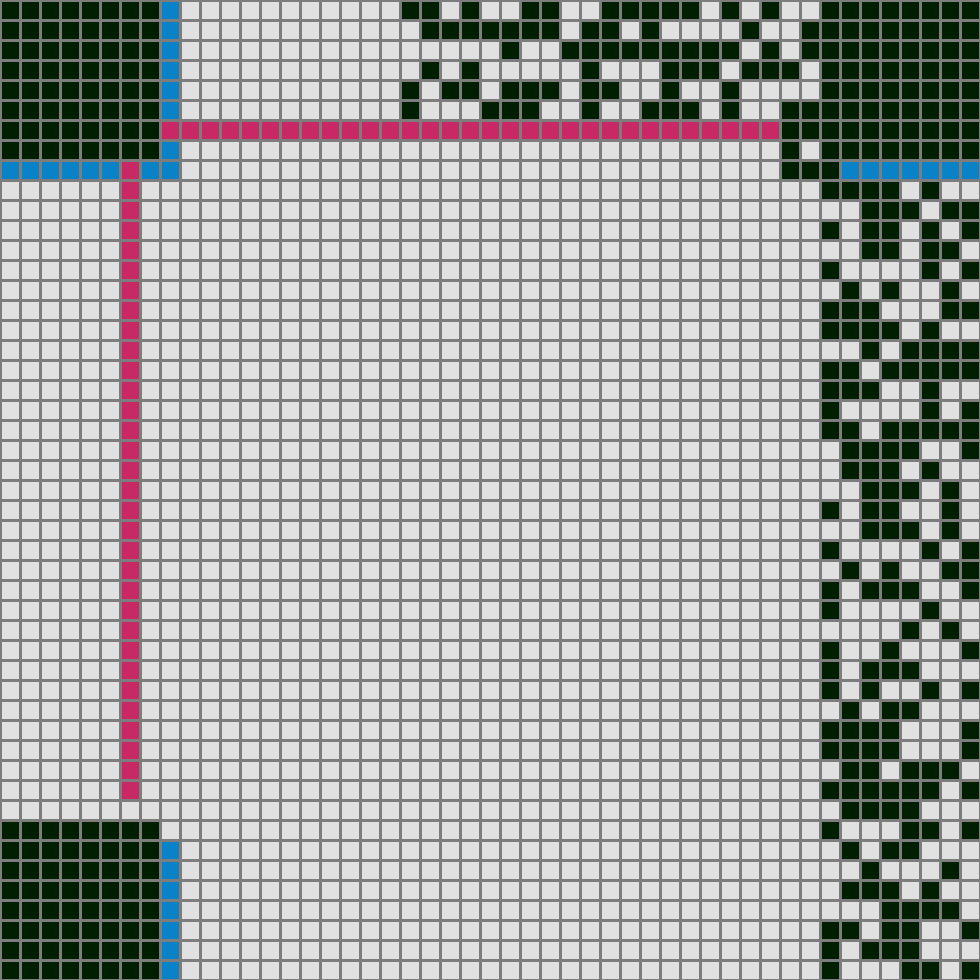
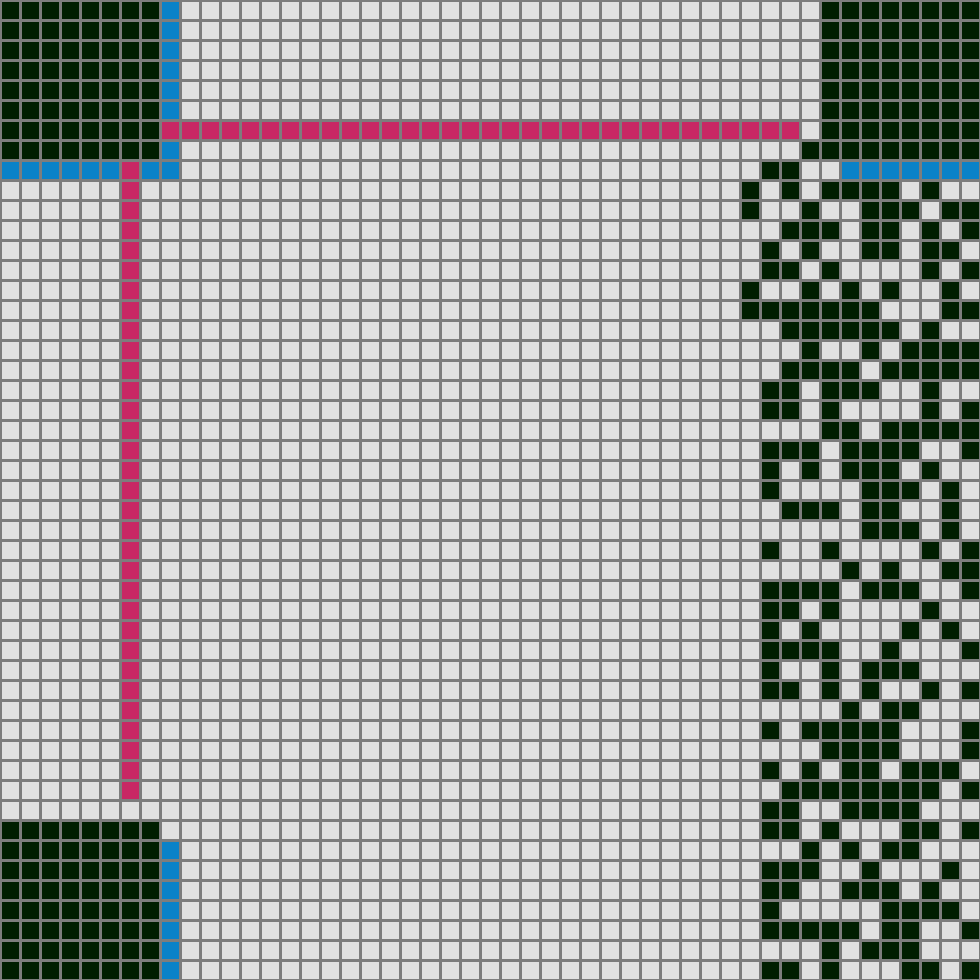
flow of bits encode in correct direction

Changed region(s): [[0.398, 0.0, 0.8571, 0.551], [0.7653, 0.551, 0.8571, 1.0]]

diff --git a/src/grid/grid.rs b/src/grid/grid.rs
@@ -106,8 +106,8 @@ impl<'a> Grid {
     pub fn get_next_point(&self, point: Point) -> Point {
         let adjacent_points: Vec<(isize, isize)> = vec![
             (1, 1),
-            (-1, 1),
             (1, 0),
+            (-1, 1),
             (-1, 0)
         ];
 
@@ -117,7 +117,6 @@ impl<'a> Grid {
                 return false
             } else {
                 let pt = next_point.unwrap();
-                println!("x: {x} y: {y}, from {:?}", p=p, x=pt.x, y=pt.y);
 
                 let cell_ref = self.get_cell_ref(pt.x, pt.y);
                 match cell_ref {
@@ -152,6 +151,11 @@ pub fn encode_byte(grid: &mut Grid, byte: u8, last_position: (usize, usize)) -> 
         let xbit = byte & (1 << i);
 
         grid.encode_bit(xbit == 0, point);
+
+        if point.x > 40 && point.y > 40 {
+            println!("x: {x} y: {y}", x=point.x, y=point.y);
+        }
+
         point = grid.get_next_point(point);
 
         // get next point
@@ -163,7 +167,6 @@ pub fn encode_byte(grid: &mut Grid, byte: u8, last_position: (usize, usize)) -> 
 }
 
 pub fn create_grid(size: usize, mask: u8, qr_version: u8, message: String) {
-    let cells: Vec<Cell> = Vec::new();
     let rows: Vec<Row> = Vec::new();
     let max = size * size;
     let mut grid = Grid { rows: rows };

diff --git a/src/grid/image.rs b/src/grid/image.rs
@@ -21,15 +21,13 @@ pub fn get_pixel_points(cell: &Cell) -> Vec<(u32, u32, Color)> {
     let i = (cell.x * 20) as u32;
     let j = (cell.y * 20) as u32;
     let mut pixels: Vec<(u32, u32, Color)> = vec![];
-    let mut x_border = true;
-    let mut y_border = true;
-    for col in i..(i + 20) {
-        x_border = match col % 20 {
+    for row in i..(i + 20) {
+        let x_border = match row % 20 {
             2...18 => false,
             _ => true
         };
-        for row in j..(j + 20) {
-            y_border = match row % 20 {
+        for col in j..(j + 20) {
+            let y_border = match col % 20 {
                 2...18 => false,
                 _ => true
             };

diff --git a/src/grid/cell.rs b/src/grid/cell.rs
@@ -22,8 +22,8 @@ impl Cell {
             is_bit: false,
             is_filled: false,
             is_format: is_format_area(x, y, size - 1),
-            x: y,
-            y: x,
+            x: x,
+            y: y,
             paths: 0
         }
     }
